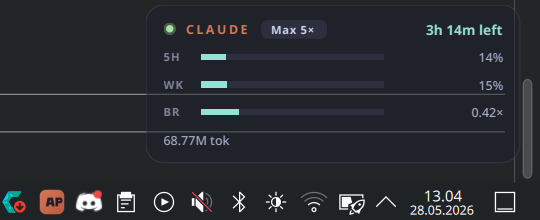
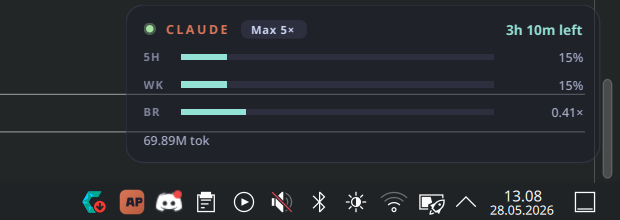
Widen HUD to 380px and shrink bar trails so the bars get the room

diff --git a/overlay.py b/overlay.py
@@ -31,7 +31,7 @@ from PySide6.QtWidgets import (
 from pricing import PLAN_LIMITS
 from usage import Snapshot, fmt_duration, fmt_tokens
 
-HUD_WIDTH = 300
+HUD_WIDTH = 380
 MARGIN = 14
 
 
@@ -120,7 +120,7 @@ class Overlay(QWidget):
         bar.setObjectName("HudBar")
         trail = QLabel("—")
         trail.setObjectName("HudRowTrail")
-        trail.setMinimumWidth(88)
+        trail.setMinimumWidth(64)
         trail.setAlignment(Qt.AlignRight | Qt.AlignVCenter)
         row.addWidget(lead, 0, Qt.AlignVCenter)
         row.addWidget(bar, 1)